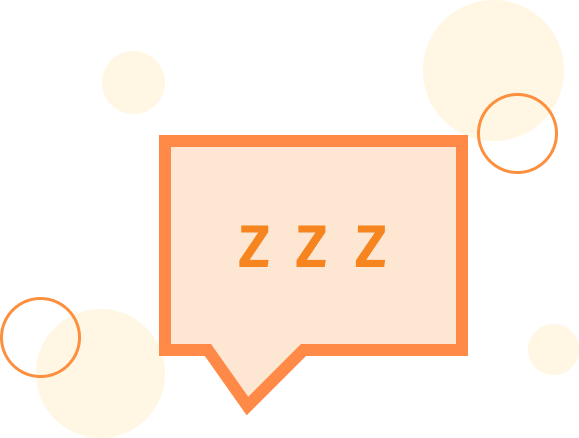
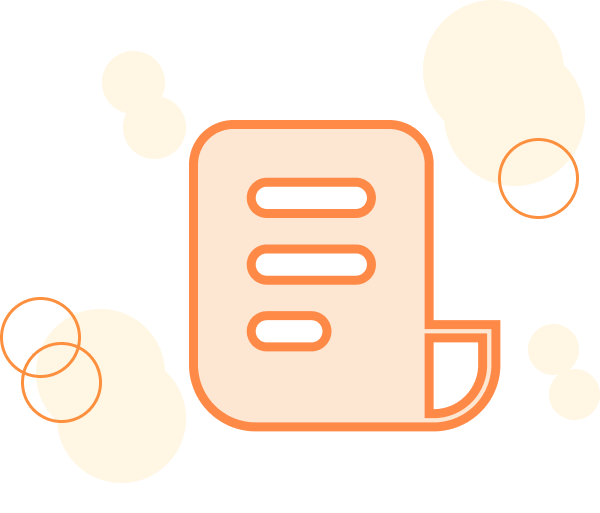
feature: display all bills notifications

diff --git a/src/ToktokBills/screens/LandingScreens/ToktokBillsNotifications/index.js b/src/ToktokBills/screens/LandingScreens/ToktokBillsNotifications/index.js
@@ -4,8 +4,8 @@ import { moderateScale, getStatusbarHeight } from 'toktokbills/helper';
 import { useIsFocused } from '@react-navigation/native';
 
 //SELF IMPORTS
-import { BillerType } from "./Components";
-import { HeaderBack, HeaderTitle, Separator, LoadingIndicator, Header } from 'toktokbills/components';
+import { NotificationItem } from "./Components";
+import { HeaderBack, HeaderTitle, Separator, LoadingIndicator, Header, EmptyList } from 'toktokbills/components';
 import { SomethingWentWrong } from 'toktokbills/components';
 
 //GRAPHQL & HOOKS
@@ -13,42 +13,66 @@ import { useLazyQuery, useMutation } from '@apollo/react-hooks';
 import { TOKTOK_BILLS_LOAD_GRAPHQL_CLIENT } from 'src/graphql';
 import { GET_BILL_TYPES } from 'toktokbills/graphql/model';
 import { useAccount } from 'toktokwallet/hooks';
+import { GET_NOTIFICATIONS_BY_CLASSIFICATION } from 'toktokwallet/graphql'
+import { useSelector } from 'react-redux';
 
 //IMAGE, FONT & COLOR
 import CONSTANTS from 'common/res/constants';
+import { empty_notifications } from 'toktokbills/assets/images';
+
 const { COLOR , FONT_FAMILY: FONT , FONT_SIZE}  = CONSTANTS;
 const { width, height } = Dimensions.get("window");
 
 export const ToktokBillsNotifications = ({navigation,route})=> {
  
+  const { user } = useSelector((state) => state.session);
   const isFocused = useIsFocused();
-  const [billTypes, setBillTypes] = useState([]);
+  const [records, setRecords] = useState([]);
   const [refreshing, setRefreshing] = useState(false);
 
-  const [getBillTypes, {loading, error, refetch}] = useLazyQuery(GET_BILL_TYPES, {
-    fetchPolicy: "cache-and-network",
-    client: TOKTOK_BILLS_LOAD_GRAPHQL_CLIENT,
-    onError: () => {
-      setRefreshing(false);
-      setBillTypes([]);
+  const [getNotificationsByClassification, { error, loading}] = useLazyQuery(GET_NOTIFICATIONS_BY_CLASSIFICATION , {
+    fetchPolicy:"network-only",
+    variables: {
+      input: {
+        userId: user.id,
+        classification: "toktokbills"
+      }
     },
-    onCompleted: ({ getBillTypes }) => {
+    onError: (error) => {
       setRefreshing(false);
-      setBillTypes(getBillTypes);
+      setRecords([]);
+    },
+    onCompleted: ({ getNotificationsByClassification }) => {
+      setRecords(getNotificationsByClassification);
+      setRefreshing(false);
     }
   })
 
   useEffect(() => {
-    getBillTypes();
+    onRefresh();
   }, []);
 
   const onRefresh = () => {
     setRefreshing(true);
-    refetch();
+    getNotificationsByClassification();
+  }
+
+  const ListEmptyComponent = () => {
+    if(refreshing) return null
+    return(
+      <View style={styles.container}>
+        <EmptyList
+          imageSrc={empty_notifications}
+          label={"No Notifications"}
+          message={"We’ll notify you when something arrives."}
+          containerStyle={{ marginBottom: moderateScale(50) }}
+        />
+      </View>
+    )
   }
 
   const display = () => {
-    if(loading && billTypes.length === 0){
+    if(loading && records.length === 0){
       return(
         <View style={styles.container}>
           <LoadingIndicator isLoading={true} isFlex />
@@ -64,20 +88,19 @@ export const ToktokBillsNotifications = ({navigation,route})=> {
     }
     return (
       <FlatList
-      style={{flex: 1}}
-      contentContainerStyle={styles.flatlistContainer}
-      showsVerticalScrollIndicator={false}
-      numColumns={3}
-      data={billTypes}
-      keyExtractor={(item)=>item.name}
-      renderItem={({item,index})=><BillerType item={item} index={index}/>}
-      refreshControl={
-        <RefreshControl
-          refreshing={refreshing}
-          onRefresh={onRefresh}
-        />
-      }
-    />
+        contentContainerStyle={styles.flatlistContainer}
+        showsVerticalScrollIndicator={false}
+        data={records}
+        keyExtractor={(item)=>item.name}
+        renderItem={({item,index})=><NotificationItem item={item} index={index}/>}
+        refreshControl={
+          <RefreshControl
+            refreshing={refreshing}
+            onRefresh={onRefresh}
+          />
+        }
+        ListEmptyComponent={ListEmptyComponent}
+      />
     )
   }
 
@@ -95,7 +118,6 @@ const styles = StyleSheet.create({
     backgroundColor:"white",
   },
   flatlistContainer: {
-    paddingHorizontal: width * .03,
-    paddingVertical: width * .035
+    flexGrow: 1
   }
 })

diff --git a/src/ToktokBills/screens/LandingScreens/ToktokBillsNotifications/Components/NotificationItem/index.js b/src/ToktokBills/screens/LandingScreens/ToktokBillsNotifications/Components/NotificationItem/index.js
@@ -1,0 +1,85 @@
+import React, { useState } from 'react';
+import { View, Text, Dimensions, StyleSheet, Image, TouchableOpacity } from 'react-native';
+import { useNavigation } from '@react-navigation/native';
+import moment from 'moment';
+
+// HELPER & UTIL
+import { moderateScale, numberFormat } from 'toktokbills/helper';
+import { useThrottle } from 'src/hooks';
+
+//COMPONENTS
+import { Details } from './Details';
+
+import CONSTANTS from 'common/res/constants';
+const {COLOR , FONT_FAMILY: FONT , FONT_SIZE , SHADOW} = CONSTANTS;
+
+const {width,height} = Dimensions.get("window");
+
+export const NotificationItem = ({ item, index })=> {
+
+  const navigation = useNavigation();
+
+  return (
+    <>
+      <TouchableOpacity
+        style={styles.container}
+        activeOpacity={.8}
+      >
+        <View style={styles.item}>
+          <View style={styles.contentContainer}>
+            <Text style={styles.itemName}>Bills Payment</Text>
+            <Text style={styles.dateTime}>{moment(item.createdAt).format("lll")}</Text>
+          </View>
+          <View style={styles.contentContainer}>
+            <Text style={styles.name}>{item.body}</Text>
+          </View>
+        </View>
+      </TouchableOpacity>
+    </>
+    
+  )
+}
+
+const styles = StyleSheet.create({
+  container: {
+    justifyContent:"center",
+    borderBottomColor: "#F6841F",
+    borderBottomWidth: 0.5,
+    paddingHorizontal: moderateScale(15),
+    paddingVertical: moderateScale(5)
+  },
+  item: {
+    flex: 1,
+    // alignItems: "center",
+    margin: 5,
+    backgroundColor: "white",
+    borderRadius: 5,
+    padding: moderateScale(10)
+  },
+  itemLogo: {
+    height: moderateScale(50),
+    width: moderateScale(50)
+  },
+  itemName: {
+    fontFamily: FONT.BOLD,
+    fontSize: moderateScale(FONT_SIZE.M),
+    color: "#F6841F",
+    flexShrink: 1,
+  },
+  dateTime: {
+    fontSize: moderateScale(FONT_SIZE.S),
+    color: "#929191"
+  },
+  amount: {
+    fontSize: moderateScale(FONT_SIZE.M),
+    color: "#EC4A4E"
+  },
+  name: {
+    fontSize: moderateScale(FONT_SIZE.M),
+  },
+  contentContainer: {
+    flexDirection: "row",
+    justifyContent: "space-between",
+    alignItems: "center"
+  }
+})

diff --git a/src/ToktokBills/screens/LandingScreens/ToktokBillsActivities/TabScreens/FailedActivities/index.js b/src/ToktokBills/screens/LandingScreens/ToktokBillsActivities/TabScreens/FailedActivities/index.js
@@ -37,10 +37,12 @@ export const FailedActivities = ({navigation,route})=> {
       }
     },
     onError: (error) => {
-      // onErrorAlert({ alert, error })
+      setRefreshing(false);
+      setRecords([]);
     },
     onCompleted: ({ getTransactionsByStatus })=> {
-      setRecords(getTransactionsByStatus)
+      setRecords(getTransactionsByStatus);
+      setRefreshing(false);
     }
   })
 

diff --git a/src/ToktokBills/assets/images/index.js b/src/ToktokBills/assets/images/index.js
@@ -7,5 +7,6 @@ export const bayan_img = require("./bayan.png");
 export const pldt_img = require("./pldt.png");
 
 //empty images
-export const empty_search = require("./empty-search.png");
 export const empty_activities = require("./empty-activities.png");
+export const empty_notifications = require("./empty-notifications.png");
+export const empty_search = require("./empty-search.png");

diff --git a/src/ToktokBills/components/Ui/EmptyList.js b/src/ToktokBills/components/Ui/EmptyList.js
@@ -30,7 +30,7 @@ const styles = StyleSheet.create({
   label: {
     color: "#707070",
     fontSize: FONT_SIZE.XL,
-    marginTop: moderateScale(20),
+    marginTop: moderateScale(10),
     textAlign: "center"
   },
   message: {

diff --git a/src/ToktokBills/screens/LandingScreens/ToktokBillsNotifications/Components/index.js b/src/ToktokBills/screens/LandingScreens/ToktokBillsNotifications/Components/index.js
@@ -1,1 +1,1 @@
-export * from "./BillerType";
+export * from "./NotificationItem";
